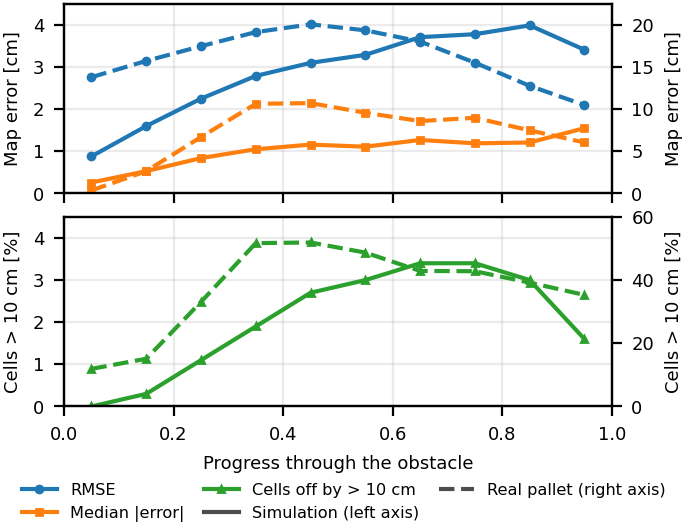
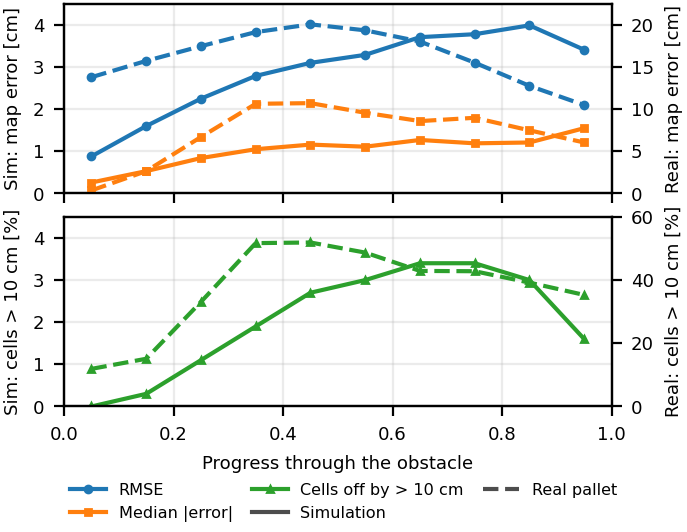
Address review comments on the results and Fig. 4
Real-robot results: drop the map-vs-map comparison on the pallet, the
C-TRAC/ICM-D3QN abort sentence, and the tilt-channel sentence, per the
three "remove this" highlights.

Onboard-map error: state that the 5 cm footprint figure is the grid
resolution.

Fig. 4: name the platform on each axis (left "Sim:", right "Real:") and
drop the now-redundant axis hints from the legend entries.

Claude-Session: https://claude.ai/code/session_01Hgd7Kf2ujsAWVFFifZ4LDD

diff --git a/04_experiments.tex b/04_experiments.tex
@@ -222,16 +222,10 @@ Mitriakov the override share dropped under the onboard map: the added noise made
 On the real pallet (Table~\ref{tab:results}) the operator remains the reference: both manual
 rides score $0.81$, above every controller. Three findings stand out. First, the best
 controllers are Yuan under the onboard map ($0.72$) and Mitriakov under the ground-truth
-map ($0.71$), and the pallet does not separate the map-based controllers by their map: with
-one ride per condition, the difference between the two maps stays within the spread over
-the crossings for all but ICM-D3QN and Mitriakov, whose quality drops the most under the
-onboard map, by $0.10$ and $0.08$. Second, \SAS{} is among the best controllers on the real
+map ($0.71$). Second, \SAS{} is among the best controllers on the real
 robot as well, second under the onboard map behind Yuan. Third, stalls are rarer than in simulation: the map-based controllers that stall
 are released by the \SAS{} override for at most 7\% of the crossing distance, and, unlike in simulation, the onboard map lowers that share for most of them, its noise making them move the
-flippers instead of holding a fixed posture; C-TRAC and ICM-D3QN abort crossings under
-either map. The tilt channel, the target of the stabilization term, is where \SAS{} leads
-on both platforms: the best tilt score in simulation, and on the real pallet the smallest
-maximum tilt of all controllers, less than a third of C-TRAC's. The shock channel again has a small spread, $0.76$ to
+flippers instead of holding a fixed posture. The shock channel again has a small spread, $0.76$ to
 $0.80$, so the controllers experienced a similar acceleration on the pallet as well.
 
 \subsection{Hidden obstacle}
@@ -255,7 +249,8 @@ flippers to descend; the lowered flippers slide under the log and the robot gets
 \subsection{Onboard-map error}
 Figure~\ref{fig:maperr} shows how the onboard map degrades over an obstacle, in simulation
 and on the real pallet. The onboard map is compared with the ground-truth map over the
-body footprint (the chassis and \SI{1.5}{\metre} ahead, at \SI{5}{\centi\metre}) at every
+body footprint (the chassis and \SI{1.5}{\metre} ahead, at a grid resolution of
+\SI{5}{\centi\metre}) at every
 map update, every \SI{0.25}{\second}. The error grows while the robot ascends the obstacle,
 where the ground under the body was last seen from the flat approach, and falls again on
 the descent, where the ground ahead comes back into view; on the real robot it is an order
